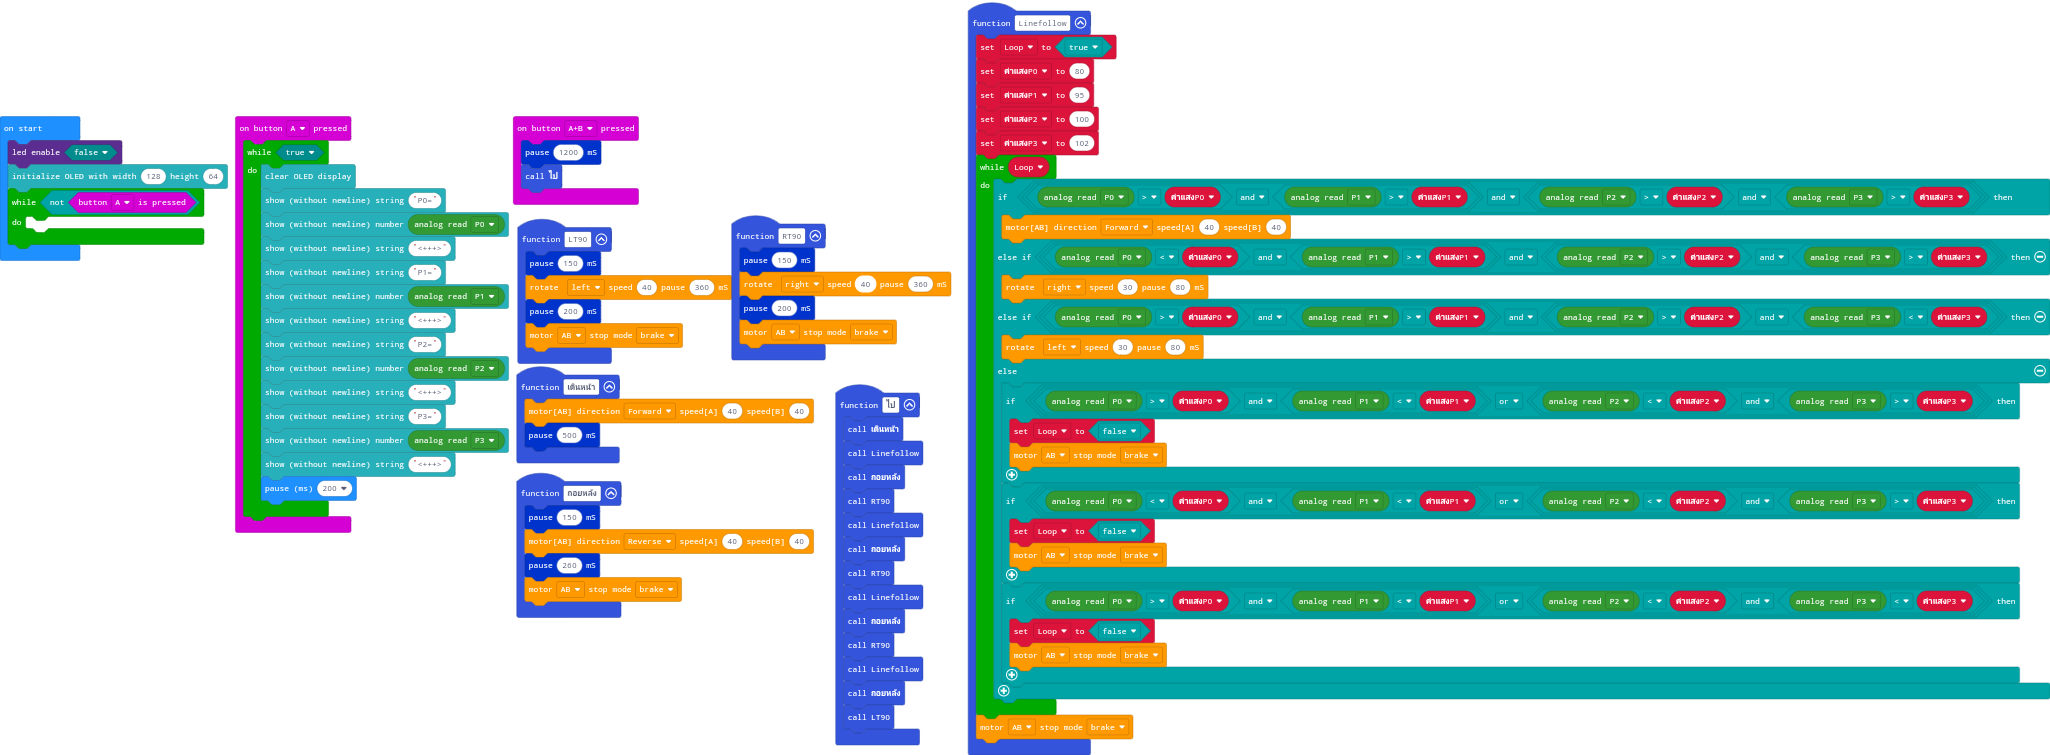
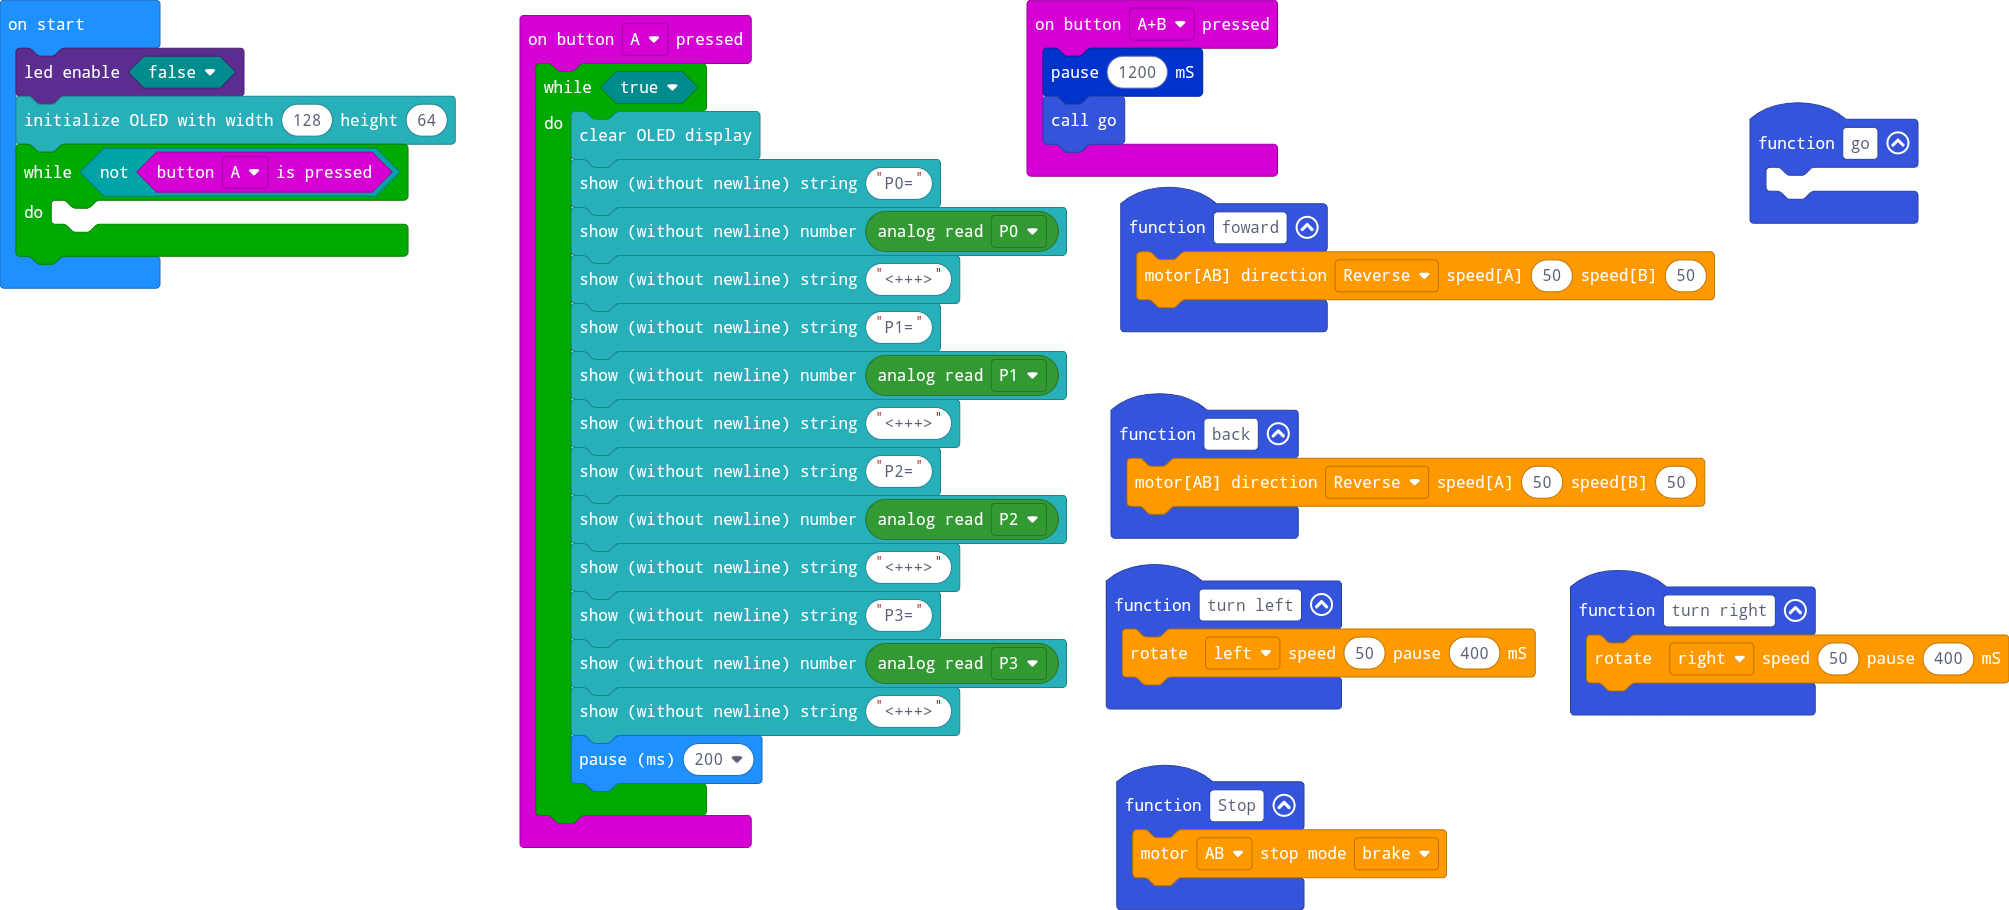
Update pxt.json, main.blocks, main.ts

diff --git a/main.ts b/main.ts
@@ -1,8 +1,8 @@
-function ถอยหลัง () {
-    MyRobotBit.TimePAUSE(150)
-    MyRobotBit.MotorAB(motorDIR.Reverse, 40, 40)
-    MyRobotBit.TimePAUSE(260)
-    MyRobotBit.motorOFF(motorSEL.M12, StopMode.Brake)
+function back () {
+    MyRobotBit.MotorAB(motorDIR.Reverse, 50, 50)
+}
+function turn_right () {
+    MyRobotBit.Rotate(Turn.Right, 50, 400)
 }
 input.onButtonPressed(Button.A, function () {
     while (true) {
@@ -22,76 +22,22 @@ input.onButtonPressed(Button.A, function () {
         basic.pause(200)
     }
 })
-function เดินหน้า () {
-    MyRobotBit.MotorAB(motorDIR.Forward, 40, 40)
-    MyRobotBit.TimePAUSE(500)
-}
 input.onButtonPressed(Button.AB, function () {
     MyRobotBit.TimePAUSE(1200)
-    ไป()
+    go()
 })
-function RT90 () {
-    MyRobotBit.TimePAUSE(150)
-    MyRobotBit.Rotate(Turn.Right, 40, 360)
-    MyRobotBit.TimePAUSE(200)
+function foward () {
+    MyRobotBit.MotorAB(motorDIR.Reverse, 50, 50)
+}
+function turn_left () {
+    MyRobotBit.Rotate(Turn.Left, 50, 400)
+}
+function Stop () {
     MyRobotBit.motorOFF(motorSEL.M12, StopMode.Brake)
 }
-function Linefollow () {
-    Loop = true
-    ค่าแสงP0 = 80
-    ค่าแสงP1 = 95
-    ค่าแสงP2 = 100
-    ค่าแสงP3 = 102
-    while (Loop) {
-        if (MySensor.analogRead(MySensor.analogPort.P0) > ค่าแสงP0 && MySensor.analogRead(MySensor.analogPort.P1) > ค่าแสงP1 && (MySensor.analogRead(MySensor.analogPort.P2) > ค่าแสงP2 && MySensor.analogRead(MySensor.analogPort.P3) > ค่าแสงP3)) {
-            MyRobotBit.MotorAB(motorDIR.Forward, 40, 40)
-        } else if (MySensor.analogRead(MySensor.analogPort.P0) < ค่าแสงP0 && MySensor.analogRead(MySensor.analogPort.P1) > ค่าแสงP1 && (MySensor.analogRead(MySensor.analogPort.P2) > ค่าแสงP2 && MySensor.analogRead(MySensor.analogPort.P3) > ค่าแสงP3)) {
-            MyRobotBit.Rotate(Turn.Right, 30, 80)
-        } else if (MySensor.analogRead(MySensor.analogPort.P0) > ค่าแสงP0 && MySensor.analogRead(MySensor.analogPort.P1) > ค่าแสงP1 && (MySensor.analogRead(MySensor.analogPort.P2) > ค่าแสงP2 && MySensor.analogRead(MySensor.analogPort.P3) < ค่าแสงP3)) {
-            MyRobotBit.Rotate(Turn.Left, 30, 80)
-        } else {
-            if (MySensor.analogRead(MySensor.analogPort.P0) > ค่าแสงP0 && MySensor.analogRead(MySensor.analogPort.P1) < ค่าแสงP1 || MySensor.analogRead(MySensor.analogPort.P2) < ค่าแสงP2 && MySensor.analogRead(MySensor.analogPort.P3) > ค่าแสงP3) {
-                Loop = false
-                MyRobotBit.motorOFF(motorSEL.M12, StopMode.Brake)
-            }
-            if (MySensor.analogRead(MySensor.analogPort.P0) < ค่าแสงP0 && MySensor.analogRead(MySensor.analogPort.P1) < ค่าแสงP1 || MySensor.analogRead(MySensor.analogPort.P2) < ค่าแสงP2 && MySensor.analogRead(MySensor.analogPort.P3) > ค่าแสงP3) {
-                Loop = false
-                MyRobotBit.motorOFF(motorSEL.M12, StopMode.Brake)
-            }
-            if (MySensor.analogRead(MySensor.analogPort.P0) > ค่าแสงP0 && MySensor.analogRead(MySensor.analogPort.P1) < ค่าแสงP1 || MySensor.analogRead(MySensor.analogPort.P2) < ค่าแสงP2 && MySensor.analogRead(MySensor.analogPort.P3) < ค่าแสงP3) {
-                Loop = false
-                MyRobotBit.motorOFF(motorSEL.M12, StopMode.Brake)
-            }
-        }
-    }
-    MyRobotBit.motorOFF(motorSEL.M12, StopMode.Brake)
+function go () {
+	
 }
-function LT90 () {
-    MyRobotBit.TimePAUSE(150)
-    MyRobotBit.Rotate(Turn.Left, 40, 360)
-    MyRobotBit.TimePAUSE(200)
-    MyRobotBit.motorOFF(motorSEL.M12, StopMode.Brake)
-}
-function ไป () {
-    เดินหน้า()
-    Linefollow()
-    ถอยหลัง()
-    RT90()
-    Linefollow()
-    ถอยหลัง()
-    RT90()
-    Linefollow()
-    ถอยหลัง()
-    RT90()
-    Linefollow()
-    ถอยหลัง()
-    LT90()
-}
-let ค่าแสงP3 = 0
-let ค่าแสงP2 = 0
-let ค่าแสงP1 = 0
-let ค่าแสงP0 = 0
-let Loop = false
 led.enable(false)
 OLED.init(128, 64)
 while (!(input.buttonIsPressed(Button.A))) {
